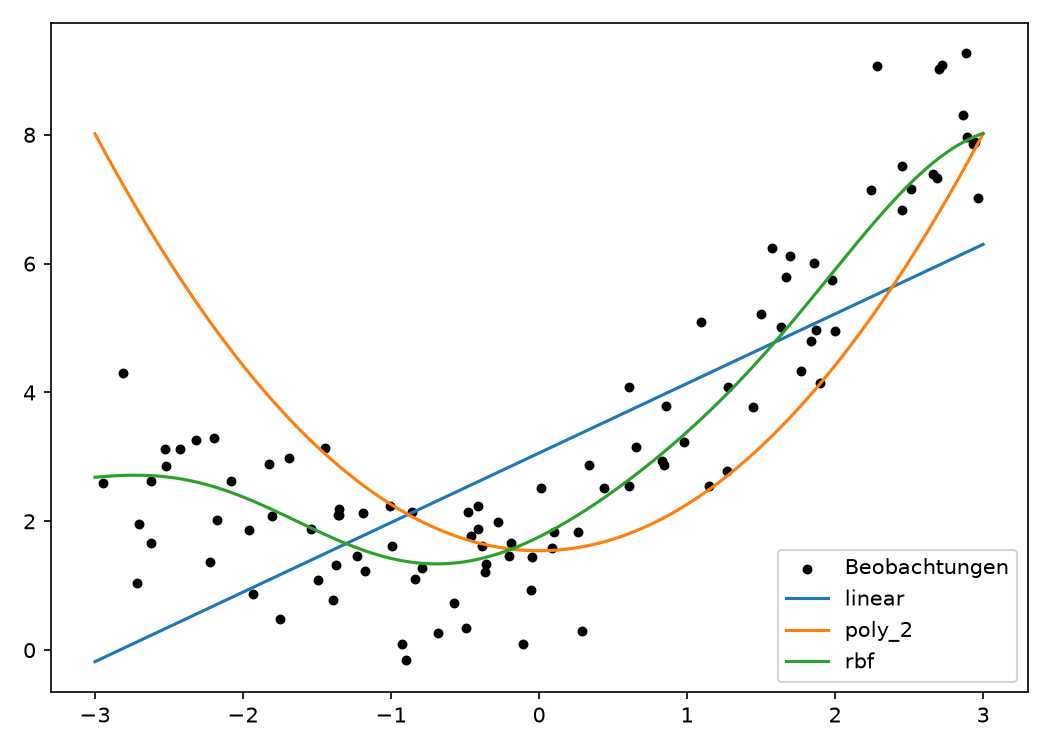
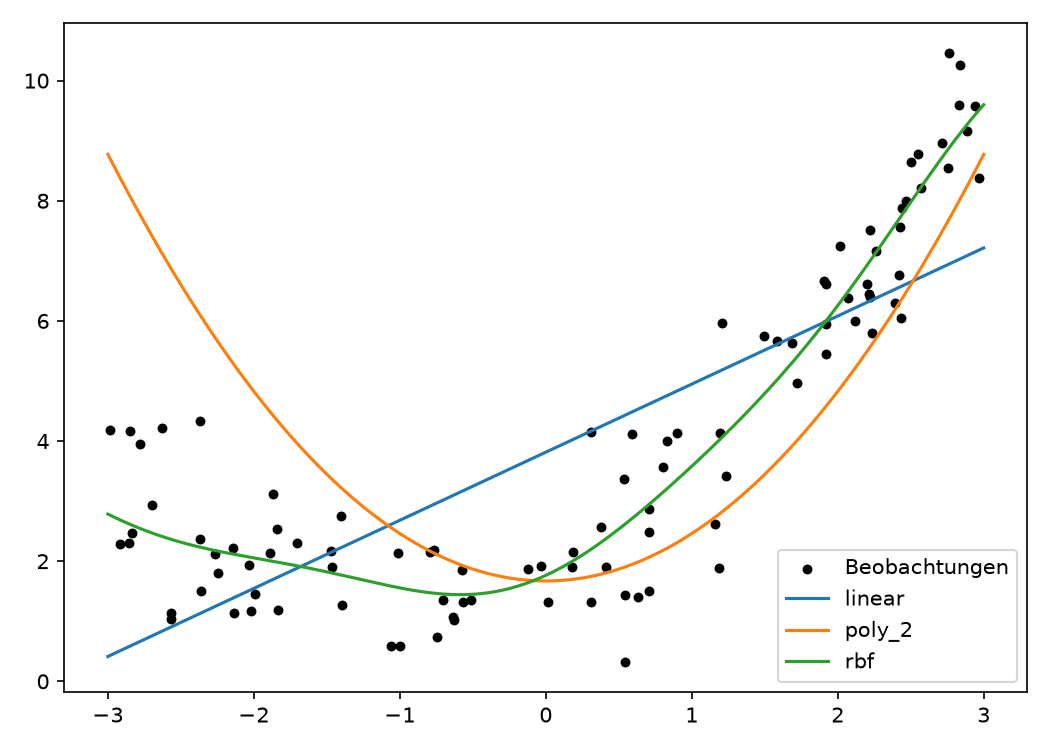
2_5 erledigt

diff --git a/exercises/02_supervised_learning/exercise_2_5_svr.py b/exercises/02_supervised_learning/exercise_2_5_svr.py
@@ -1,31 +1,71 @@
 """Exercise 2.5: Nichtlineare SVM-Regression.
 
-Aufgabenstellung: Passe die vorgegebenen verrauschten quadratischen Beobachtungen
-mit verschiedenen Kernel-Funktionen und Polynomialgraden an.
+    Aufgabenstellung: Passe die vorgegebenen verrauschten quadratischen Beobachtungen
+    mit verschiedenen Kernel-Funktionen und Polynomialgraden an.
 
 Aufruf: pdm run python exercises/02_supervised_learning/exercise_2_5_svr.py
+Ergebnisse: exercise_2_5
 """
 
 import os
 from pathlib import Path
-os.environ["MPLBACKEND"] = "Agg"; os.environ["MPLCONFIGDIR"] = str(Path("results/.matplotlib").resolve())
+
+os.environ["MPLBACKEND"] = "Agg"
+os.environ["MPLCONFIGDIR"] = str(Path("results/.matplotlib").resolve())
+
 import matplotlib.pyplot as plt
 import numpy as np
 from sklearn.metrics import mean_squared_error
 from sklearn.svm import SVR
 
-RESULTS = Path("results/exercise_2_5"); SEED = 6020
+RESULTS = Path("results/exercise_2_5")
+SEED = 6020
+
+
+def create_observations():
+    # Aus aufgbenstellung
+    np.random.seed(SEED)
+
+    number_of_observations = 100
+    x = 6 * np.random.rand(number_of_observations) - 3
+    y = 0.5 * x**2 + x + 2 + np.random.randn(number_of_observations)
+
+    return x, y
+
+
+def create_models():
+    return {
+        "linear": SVR(kernel="linear", C=10),
+        "poly_2": SVR(kernel="poly", degree=2, C=10, epsilon=0.1),
+        "rbf": SVR(kernel="rbf", C=10, gamma="scale"),
+    }
 
 
 def main():
-    RESULTS.mkdir(parents=True, exist_ok=True); rng = np.random.default_rng(SEED)
-    x = 6 * rng.random(100) - 3; y = 0.5 * x**2 + x + 2 + rng.normal(size=100); grid = np.linspace(-3, 3, 500)
-    models = {"linear": SVR(kernel="linear", C=10), "poly_2": SVR(kernel="poly", degree=2, C=10, epsilon=0.1), "rbf": SVR(kernel="rbf", C=10, gamma="scale")}
-    plt.figure(figsize=(7, 5)); plt.scatter(x, y, c="black", s=14, label="Beobachtungen")
+    RESULTS.mkdir(parents=True, exist_ok=True)
+
+    x, y = create_observations()
+    grid = np.linspace(-3, 3, 500)
+    models = create_models()
+
+    plt.figure(figsize=(7, 5))
+    plt.scatter(x, y, c="black", s=14, label="Beobachtungen")
+
     for name, model in models.items():
-        model.fit(x[:, None], y); print(f"{name}: MSE = {mean_squared_error(y, model.predict(x[:, None])):.3f}")
-        plt.plot(grid, model.predict(grid[:, None]), label=name)
-    plt.legend(); plt.tight_layout(); plt.savefig(RESULTS / "svr.png", dpi=150); plt.close()
+        model.fit(x[:, None], y)
+
+        predictions = model.predict(x[:, None])
+        mse = mean_squared_error(y, predictions)
+        print(f"{name}: MSE = {mse:.3f}")
+
+        grid_predictions = model.predict(grid[:, None])
+        plt.plot(grid, grid_predictions, label=name)
+
+    plt.legend()
+    plt.tight_layout()
+    plt.savefig(RESULTS / "svr.png", dpi=150)
+    plt.close()
 
 
-if __name__ == "__main__": main()
+if __name__ == "__main__":
+    main()